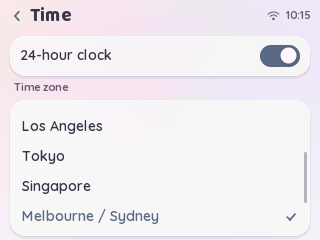
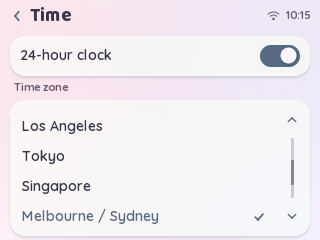
Scroll buttons for every scrolling list
Lists could only be scrolled by dragging, which is hard on a resistive
panel. A ListView with buttonWidth set now shows, when it overflows, a
32 dp strip at its right edge with an up and a down button (each pages by
a view less one row; dimmed at the ends) and a position rail between
them. Rows are drawn and picked beside the strip; a list that fits has no
strip. A press on a button highlights it, sliding off cancels it, and a
drag that starts on the strip does not scroll.

Enabled on the Wi-Fi network list, time zones, About, the weather places
and the alarm list (whose switch now hit-tests in the narrower rows).

Tests: 107 (a widget test with exact numbers; the time zone list by touch).

Claude-Session: https://claude.ai/code/session_01WrCzyR31TQn5da2N4PH2yW

diff --git a/src/stella/ui/widgets.cpp b/src/stella/ui/widgets.cpp
@@ -224,29 +224,108 @@ void ListView::scrollTo(int index) {
   if (offset < 0) offset = 0;
 }
 
+Rect ListView::rows() const { return hasButtons() ? Rect(bounds.x, bounds.y, bounds.w - buttonWidth, bounds.h) : bounds; }
+Rect ListView::upButton() const { return Rect(bounds.right() - buttonWidth, bounds.y, buttonWidth, buttonWidth); }
+Rect ListView::downButton() const {
+  return Rect(bounds.right() - buttonWidth, bounds.bottom() - buttonWidth, buttonWidth, buttonWidth);
+}
+int ListView::pageStep() const {
+  const int rowsInView = rowHeight > 0 ? bounds.h / rowHeight : 1;
+  return (rowsInView > 1 ? rowsInView - 1 : 1) * rowHeight;
+}
+void ListView::scrollBy(int pixels, Invalidator &inv) {
+  int next = offset + pixels;
+  if (next > maxOffset()) next = maxOffset();
+  if (next < 0) next = 0;
+  if (next == offset) return;
+  offset = next;
+  inv.invalidate(bounds);
+}
+
 void ListView::draw(Canvas &c, const Theme &t, DrawRow drawRow, void *context) const {
   if (!c.visible(bounds) || rowHeight <= 0) return;
   const Rect previous = c.pushClip(bounds);
+  const Rect area = rows();
   const int first = offset / rowHeight;
   for (int i = first; i < count; ++i) {
-    const Rect row(bounds.x, bounds.y + i * rowHeight - offset, bounds.w, rowHeight);
+    const Rect row(area.x, area.y + i * rowHeight - offset, area.w, rowHeight);
     if (row.y >= bounds.bottom()) break;
     if (c.visible(row)) drawRow(c, t, i, row, i == pressed, context);
   }
-  // Scroll indicator, only when the list overflows.
-  if (maxOffset() > 0) {
+  const Palette &p = t.color;
+  if (hasButtons()) {
+    // Up and down buttons with the position rail between them.
+    const Rect up = upButton(), down = downButton();
+    const int icon = t.dp(14);
+    const Color faint = blend(p.glass, p.textMuted, 90);
+    if (pressedButton_ == 0) c.fillRoundRect(up.inset(t.dp(3)), (up.w - t.dp(6)) / 2, p.accent, 46);
+    if (pressedButton_ == 1) c.fillRoundRect(down.inset(t.dp(3)), (down.w - t.dp(6)) / 2, p.accent, 46);
+    icons::chevronUp(c, layout::center(up, icon, icon), offset > 0 ? p.accent : faint);
+    icons::chevronDown(c, layout::center(down, icon, icon), offset < maxOffset() ? p.accent : faint);
+    const int railTop = up.bottom() + t.dp(2), railH = down.y - t.dp(2) - railTop;
+    if (railH > t.dp(12)) {
+      const int cx = up.x + up.w / 2, w = t.dp(3) < 2 ? 2 : t.dp(3);
+      c.fillRoundRect(Rect(cx - w / 2, railTop, w, railH), w / 2, p.line, (uint8_t)(p.lineAlpha * 2));
+      int thumbH = (int)((long)railH * bounds.h / (count * rowHeight));
+      if (thumbH < t.dp(12)) thumbH = t.dp(12);
+      const int y = railTop + (railH - thumbH) * offset / maxOffset();
+      c.fillRoundRect(Rect(cx - w / 2, y, w, thumbH), w / 2, p.textMuted, 170);
+    }
+  } else if (maxOffset() > 0) {
+    // Scroll indicator, only when the list overflows and has no buttons.
     const int trackH = bounds.h - t.dp(8);
     const int thumbH = trackH * bounds.h / (count * rowHeight) > t.dp(16) ? trackH * bounds.h / (count * rowHeight) : t.dp(16);
     const int y = bounds.y + t.dp(4) + (trackH - thumbH) * offset / maxOffset();
-    c.fillRoundRect(Rect(bounds.right() - t.dp(4), y, t.dp(3), thumbH), t.dp(2), t.color.textMuted, 110);
+    c.fillRoundRect(Rect(bounds.right() - t.dp(4), y, t.dp(3), thumbH), t.dp(2), p.textMuted, 110);
   }
   c.restoreClip(previous);
 }
 
 int ListView::handle(const Event &e, Invalidator &inv) {
+  if (hasButtons()) {
+    const Rect up = upButton(), down = downButton();
+    switch (e.type) {
+      case EventType::Press:
+        pressedButton_ = up.contains(e.x, e.y) ? 0 : down.contains(e.x, e.y) ? 1 : -1;
+        if (pressedButton_ >= 0) {
+          inv.invalidate(bounds);
+          return -1;
+        }
+        break;
+      case EventType::Drag:
+        if (pressedButton_ >= 0) {
+          if (!(pressedButton_ == 0 ? up : down).contains(e.x, e.y)) {
+            pressedButton_ = -1;
+            inv.invalidate(bounds);
+          }
+          return -1;
+        }
+        break;
+      case EventType::Release:
+        if (pressedButton_ >= 0) {
+          pressedButton_ = -1;
+          inv.invalidate(bounds);
+          return -1;
+        }
+        break;
+      case EventType::Tap:
+        if (up.contains(e.x, e.y)) {
+          scrollBy(-pageStep(), inv);
+          return -1;
+        }
+        if (down.contains(e.x, e.y)) {
+          scrollBy(pageStep(), inv);
+          return -1;
+        }
+        break;
+      default:
+        break;
+    }
+  }
+  const Rect area = rows();
   switch (e.type) {
     case EventType::Press:
-      if (!bounds.contains(e.x, e.y)) return -1;
+      if (!area.contains(e.x, e.y)) return -1;
       dragStartOffset_ = offset;
       dragging_ = false;
       pressed = (e.y - bounds.y + offset) / rowHeight;
@@ -254,7 +333,7 @@ int ListView::handle(const Event &e, Invalidator &inv) {
       inv.invalidate(bounds);
       return -1;
     case EventType::Drag: {
-      if (!bounds.contains(e.startX, e.startY)) return -1;
+      if (!area.contains(e.startX, e.startY)) return -1;
       dragging_ = true;
       if (pressed >= 0) {
         pressed = -1;
@@ -277,7 +356,7 @@ int ListView::handle(const Event &e, Invalidator &inv) {
       dragging_ = false;
       return -1;
     case EventType::Tap: {
-      if (!bounds.contains(e.x, e.y)) return -1;
+      if (!area.contains(e.x, e.y)) return -1;
       const int index = (e.y - bounds.y + offset) / rowHeight;
       return index < count ? index : -1;
     }

diff --git a/tests/test_input_ui.cpp b/tests/test_input_ui.cpp
@@ -214,3 +214,44 @@ TEST(list_view_scrolls_and_picks) {
   list.scrollTo(0);
   CHECK_EQ(list.offset, 0);
 }
+
+TEST(list_view_buttons_page_and_the_strip_never_picks_a_row) {
+  Sink sink;
+  ListView list;
+  list.bounds = Rect(0, 100, 200, 100);
+  list.rowHeight = 25;
+  list.count = 10;
+  list.buttonWidth = 30;
+  CHECK(list.hasButtons());
+  CHECK(list.rows().w == 170 && list.upButton() == Rect(170, 100, 30, 30) && list.downButton() == Rect(170, 170, 30, 30));
+  CHECK_EQ(list.pageStep(), 75);  // a view of four rows, less one
+  // Down: press, release, tap (as the gesture recogniser delivers them).
+  list.handle(pointer(EventType::Press, 185, 185), sink);
+  const int before = sink.calls;
+  list.handle(pointer(EventType::Release, 185, 185), sink);
+  CHECK(sink.calls > before);  // the pressed highlight is repainted
+  CHECK_EQ(list.handle(pointer(EventType::Tap, 185, 185), sink), -1);
+  CHECK_EQ(list.offset, 75);
+  list.handle(pointer(EventType::Tap, 185, 185), sink);
+  CHECK_EQ(list.offset, 150);
+  list.handle(pointer(EventType::Tap, 185, 185), sink);
+  CHECK_EQ(list.offset, 150);  // clamped at the end
+  list.handle(pointer(EventType::Tap, 185, 115), sink);  // up
+  CHECK_EQ(list.offset, 75);
+  // The strip never picks a row, but the rows beside it do.
+  CHECK_EQ(list.handle(pointer(EventType::Tap, 185, 150), sink), -1);
+  CHECK_EQ(list.handle(pointer(EventType::Tap, 100, 105), sink), 3);  // (5 + 75) / 25
+  // A press on a button that slides off it is cancelled, and a drag that
+  // starts on the strip does not scroll the list.
+  list.handle(pointer(EventType::Press, 185, 185), sink);
+  list.handle(pointer(EventType::Drag, 50, 185, 185, 185), sink);
+  list.handle(pointer(EventType::Release, 50, 185, 185, 185), sink);
+  CHECK_EQ(list.offset, 75);
+  // A list that fits has no strip at all.
+  ListView small;
+  small.bounds = Rect(0, 0, 200, 100);
+  small.rowHeight = 25;
+  small.count = 3;
+  small.buttonWidth = 30;
+  CHECK(!small.hasButtons() && small.rows() == small.bounds);
+}

diff --git a/tests/test_calibration.cpp b/tests/test_calibration.cpp
@@ -324,3 +324,41 @@ TEST(calibrate_reset_restores_the_board_defaults_for_its_tab) {
   CHECK(s.os.settings().warmth == s.os.defaultSettings().warmth);
   CHECK(s.os.settings().colorTone == ColorTone::Vivid);  // other tabs untouched
 }
+
+// Regression (CYD): lists could only be scrolled by dragging, which is hard on
+// a resistive panel. Time zones: the down button pages, up returns, and the
+// row picked afterwards is the one shown.
+TEST(time_zone_list_scrolls_with_its_buttons) {
+  SimSession s(320, 240);
+  s.os.launch("settings");
+  s.run(100);
+  const Point row = s.settingsRow(3);
+  s.tap(row.x, row.y);  // Time
+  const Theme &t = s.os.theme();
+  Rect r[3];
+  layout::column(s.os.contentRect().inset(t.m.margin, t.m.gapS),
+                 {layout::px(t.m.row), layout::px(t.font.caption->lineHeight), layout::flex()}, t.m.gapS, r);
+  const Rect list = r[2].inset(t.dp(2), t.dp(4));
+  const int bw = t.dp(32), rowH = t.dp(30);
+  const Point down{(int16_t)(list.right() - bw / 2), (int16_t)(list.bottom() - bw / 2)};
+  const Point up{(int16_t)(list.right() - bw / 2), (int16_t)(list.y + bw / 2)};
+  // The list opens scrolled to the selected zone: page up to the top first.
+  for (int i = 0; i < 3; ++i) s.tap(up.x, up.y);
+  const std::vector<Color> top = s.dev.display.framebuffer();
+  s.tap(down.x, down.y);
+  CHECK(s.dev.display.framebuffer() != top);
+  // One page is the view less one row; the first row now shown is the one a tap picks.
+  const int firstShown = list.h / rowH - 1;
+  int count = 0;
+  const TimezonePreset *zones = timezonePresets(count);
+  CHECK(firstShown > 0 && firstShown < count);
+  s.tap(list.x + list.w / 3, list.y + rowH / 2);
+  CHECK(strcmp(s.os.settings().timezone, zones[firstShown].posix) == 0);
+  s.tap(up.x, up.y);  // and back to the top
+  s.run(100);
+  CHECK(!s.os.renderPending());
+  const std::vector<Color> incremental = s.dev.display.framebuffer();
+  s.os.invalidateAll();
+  s.run(20);
+  CHECK(incremental == s.dev.display.framebuffer());
+}

diff --git a/src/stella/ui/widgets.h b/src/stella/ui/widgets.h
@@ -80,6 +80,9 @@ struct ListRow {
 
 // Vertically scrolling list of fixed-height rows (drag to scroll, tap to pick).
 // Rows are drawn by a callback, so any row design works and nothing is copied.
+// With `buttonWidth` set, a list that overflows also shows up/down buttons and
+// a position rail in a strip at its right edge (dragging is hard on a
+// resistive panel); rows are then drawn and picked in the narrower `rows()`.
 struct ListView {
   using DrawRow = void (*)(Canvas &c, const Theme &t, int index, const Rect &row, bool pressed, void *context);
 
@@ -88,8 +91,15 @@ struct ListView {
   int count = 0;
   int offset = 0;     // scroll position in pixels
   int pressed = -1;   // row under the finger, -1 if none
+  int buttonWidth = 0;  // 0 = no buttons; else the strip's width (use t.dp(32))
 
   int maxOffset() const;
+  bool hasButtons() const { return buttonWidth > 0 && maxOffset() > 0; }
+  Rect rows() const;        // where rows are drawn and picked (bounds minus the button strip)
+  Rect upButton() const;    // the strip's top and bottom squares
+  Rect downButton() const;
+  int pageStep() const;     // pixels one button press scrolls (a view less one row)
+  void scrollBy(int pixels, Invalidator &inv);
   void scrollTo(int index);  // make row `index` visible
   void draw(Canvas &c, const Theme &t, DrawRow drawRow, void *context) const;
   // Returns the tapped row index, or -1.
@@ -97,6 +107,7 @@ struct ListView {
 
  private:
   int dragStartOffset_ = 0;
+  int pressedButton_ = -1;  // 0 up, 1 down
   bool dragging_ = false;
 };
 

diff --git a/src/stella/apps/settings_app.cpp b/src/stella/apps/settings_app.cpp
@@ -150,6 +150,7 @@ void SettingsApp::WifiScreen::layout(const Rect &content, const Theme &t) {
   listCard_ = r[2];
   list_.bounds = r[2].inset(t.dp(2), t.dp(4));
   list_.rowHeight = t.dp(32);
+  list_.buttonWidth = t.dp(32);
 }
 
 void SettingsApp::WifiScreen::refresh(AppContext &ctx) {
@@ -698,6 +699,7 @@ void SettingsApp::TimeScreen::layout(const Rect &content, const Theme &t) {
   zoneCard_ = r[2];
   zones_.bounds = r[2].inset(t.dp(2), t.dp(4));
   zones_.rowHeight = t.dp(30);
+  zones_.buttonWidth = t.dp(32);
 }
 
 void SettingsApp::TimeScreen::onShow(AppContext &ctx) {
@@ -758,6 +760,7 @@ void SettingsApp::AboutScreen::layout(const Rect &content, const Theme &t) {
   card_ = content.inset(t.m.margin, t.m.gapS);
   list_.bounds = card_.inset(t.dp(2), t.dp(4));
   list_.rowHeight = t.dp(24);
+  list_.buttonWidth = t.dp(32);
   list_.count = kRows;
 }
 

diff --git a/src/stella/apps/alarms_app.cpp b/src/stella/apps/alarms_app.cpp
@@ -240,6 +240,7 @@ void AlarmsApp::ListScreen::arrange() {
   card_ = Rect(body_.x, body_.y, body_.w, listH + 2 * pad);
   list_.bounds = card_.inset(t.dp(2), pad);
   list_.rowHeight = rowH;
+  list_.buttonWidth = t.dp(32);
   list_.count = count;
   if (list_.offset > list_.maxOffset()) list_.offset = list_.maxOffset();
   empty_ = Rect(body_.x, body_.y, body_.w, body_.h * 3 / 4);
@@ -346,7 +347,7 @@ bool AlarmsApp::ListScreen::onEvent(const Event &e, AppContext &ctx) {
   if (index < 0) return true;
   // The switch (and a margin around it) toggles; the rest of the row edits.
   Toggle probe;
-  probe.bounds = list_.bounds.inset(theme_.m.padding, 0);
+  probe.bounds = list_.rows().inset(theme_.m.padding, 0);
   if (e.x >= probe.track(theme_).x - theme_.dp(12)) {
     AlarmEntry &a = app_.book_.alarms[index];
     a.enabled = a.enabled ? 0 : 1;

diff --git a/src/stella/apps/weather_app.cpp b/src/stella/apps/weather_app.cpp
@@ -379,6 +379,7 @@ void WeatherApp::PlaceScreen::layout(const Rect &content, const Theme &t) {
   card_ = content.inset(t.m.margin, t.m.gapS);
   list_.bounds = card_.inset(t.dp(2), t.dp(4));
   list_.rowHeight = t.dp(30);
+  list_.buttonWidth = t.dp(32);
 }
 
 void WeatherApp::PlaceScreen::onShow(AppContext &) {

diff --git a/README.md b/README.md
@@ -18,7 +18,7 @@ management and versioned settings.
 | --- | --- |
 | Version | 0.4.0, bedside clock |
 | First board | ESP32-2432S028R "Cheap Yellow Display" (2.8" 320x240, XPT2046) |
-| Host tests | 105 tests under ASan + UBSan, incl. touch-driven Wi-Fi onboarding and alarms; screenshots at 320x240 and 480x320 |
+| Host tests | 107 tests under ASan + UBSan, incl. touch-driven Wi-Fi onboarding and alarms; screenshots at 320x240 and 480x320 |
 | Firmware build | Compiles with Arduino-ESP32 3.3.12: 1.35 MB flash (42%), 72 KB static RAM (21%) |
 | On hardware | First runs on a CYD by the owner (0.3.0): boots, Wi-Fi, Weather; colour, brightness and paging feedback addressed in 0.3.1 (not yet re-checked on the device). |
 
@@ -127,18 +127,21 @@ In the Arduino IDE: add this repository as a library, open
    Wi-Fi has fetched it) and "06:45 · in 8 h 15 min" when an alarm is set;
    any tap returns to the Clock. Is it dim enough for a dark room, are the
    stars visible, and does the black background still flicker?
-9. *Touch test > Calibrate*: tap the four crosses with the stylus; touches
+9. *Lists*: on Settings > Time (time zones), Settings > About, the Wi-Fi
+   network list and the weather places, the up/down buttons at the right edge
+   scroll by a page; the rail shows where you are.
+10. *Touch test > Calibrate*: tap the four crosses with the stylus; touches
    then land under the pen. Leaving the test clears its trail.
-10. The `health` log line (once a minute) shows `stack ui`/`svc` headroom; it
+11. The `health` log line (once a minute) shows `stack ui`/`svc` headroom; it
    should stay above ~1 KB, also right after a weather refresh (TLS).
-11. *Alarms and Timer*: a one-minute timer rings over another app and wakes a
+12. *Alarms and Timer*: a one-minute timer rings over another app and wakes a
    sleeping screen; *Again* restarts it. An alarm set for the next minute
    rings, *Snooze* brings it back nine minutes later, and a one-off alarm
    switches itself off. With a small speaker on the *SPEAK* connector the
    chime is audible but gentle (`STELLA_CYD_TONE_DUTY` adjusts it).
-12. Optional: build with `STELLA_CYD_DMA 1` and compare smoothness; any
+13. Optional: build with `STELLA_CYD_DMA 1` and compare smoothness; any
    corruption means DMA must stay off for this board.
-13. Leave it running overnight; no `restarting` line in the log and the
+14. Leave it running overnight; no `restarting` line in the log and the
    minimum heap in the `health` line stays stable.
 
 ## Licence

diff --git a/docs/DESIGN.md b/docs/DESIGN.md
@@ -129,6 +129,10 @@ All lengths come from `Theme::m` (and `t.dp(n)` for rare custom lengths, where
   long-press anywhere on it for home). Network icon and time at the right, in `textMuted`.
 - **Glass card:** groups related rows; rows separated by hairlines.
 - **List row:** icon bubble, title, optional muted value, chevron.
+- **Scrolling list:** drag to scroll, and when it overflows a strip at the
+  right edge (32 dp wide) holds an up and a down button (each pages by a view
+  less one row; dimmed at the ends) with a thin position rail between them.
+  Rows are drawn and picked beside the strip; a list that fits has none.
 - **Segmented choice:** glass pill; the selected chip is an opaque `surface`
   chip with a hairline and accent text (the site's sky chooser).
 - **Toggle:** pill track (accent when on) with a soft knob.

diff --git a/docs/ARCHITECTURE.md b/docs/ARCHITECTURE.md
@@ -236,9 +236,9 @@ Apps get their own namespace (`AppContext::saveAppRecord`).
 
 | Item | Size |
 | --- | --- |
-| Program (flash) | 1,421,767 B of 3 MB (huge_app partition); mbedTLS/HTTPS is most of it |
-| Static RAM (globals) | 74,012 B; 253,668 B left for stacks and heap |
-| With DMA (`STELLA_CYD_DMA 1`) | 1,440,809 B flash, 87,636 B static RAM |
+| Program (flash) | 1,423,087 B of 3 MB (huge_app partition); mbedTLS/HTTPS is most of it |
+| Static RAM (globals) | 74,052 B; 253,628 B left for stacks and heap |
+| With DMA (`STELLA_CYD_DMA 1`) | 1,442,133 B flash, 87,676 B static RAM |
 | Render chunk buffer | 12,800 B (320 x 20 px); a second one with DMA |
 | Service thread stack | 16 KiB (TLS handshakes) |
 | Fonts (both densities, flash) | ~155 KB (the bedside numerals are ~56 KB of it) |

diff --git a/docs/APPS.md b/docs/APPS.md
@@ -164,5 +164,8 @@ are complete examples.
   skip work entirely.
 - Long work belongs in a `Job` on the service thread, publishing a
   `Topic<T>`; the app reads it in `onTopic`.
+- A scrolling `ListView` sets `buttonWidth = t.dp(32)` in `layout()` to get
+  up/down buttons and a rail when it overflows (resistive panels make drags
+  hard); draw and pick rows in `list.rows()`, not `list.bounds`.
 - Persist small app state with `ctx.saveAppRecord(key, version, &data, size)`.
 - Check the result at both densities: `python3 tools/screenshots.py`.
